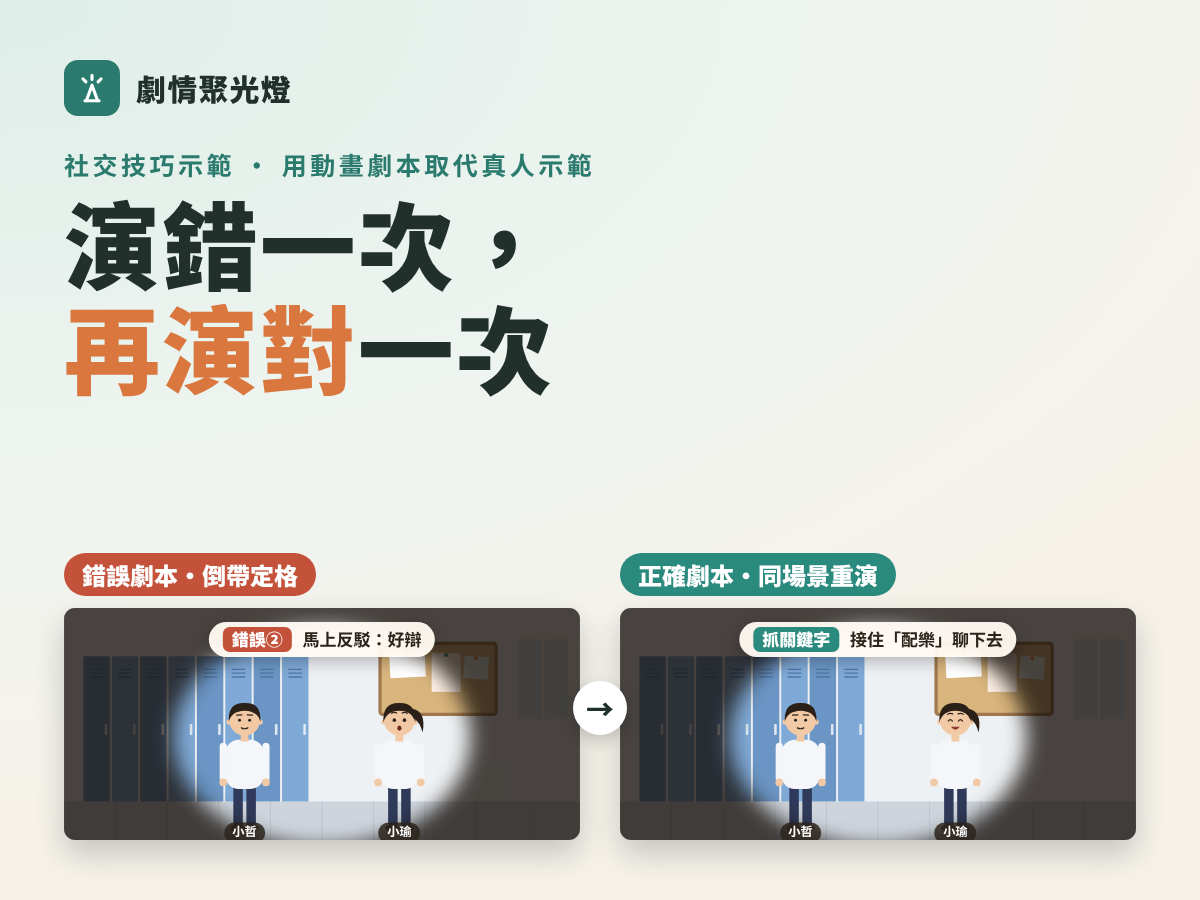
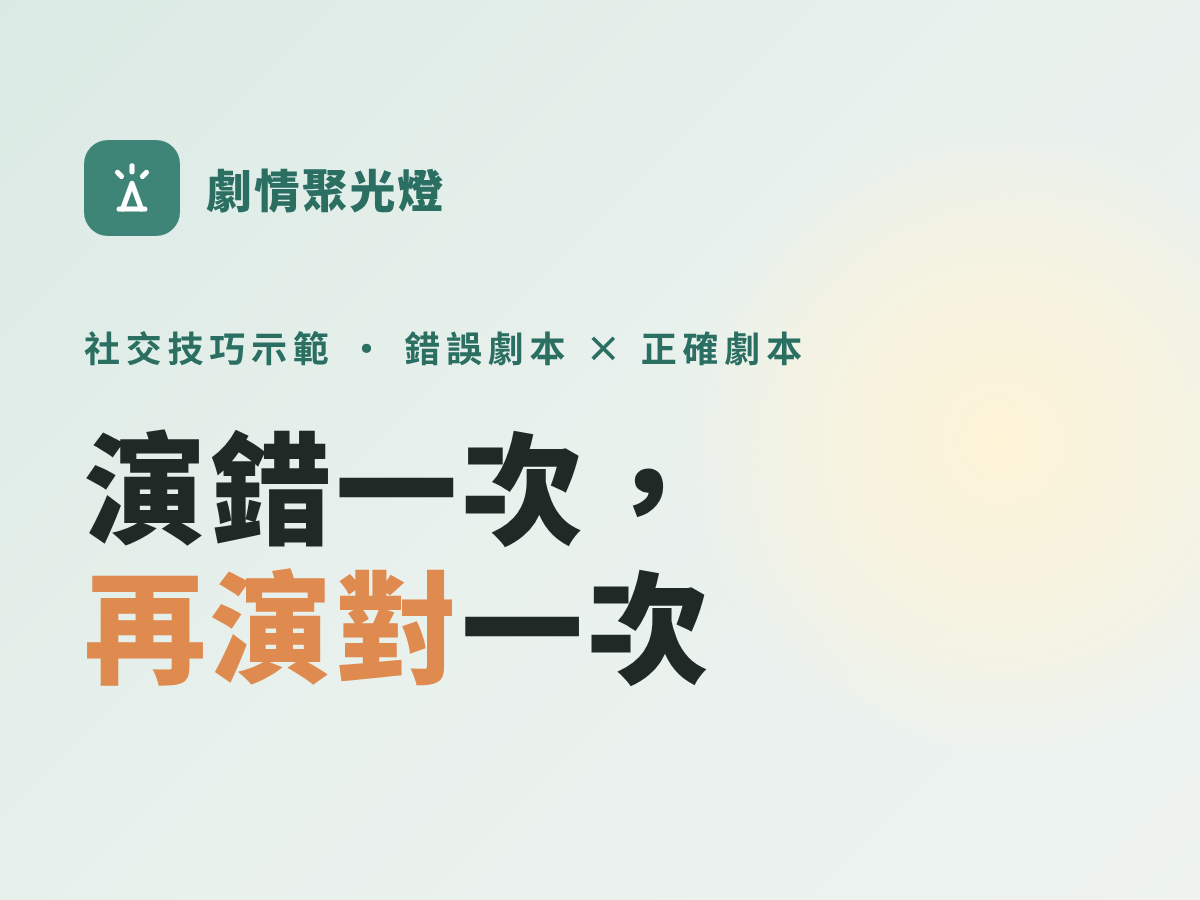
封面圖改成 4:3、跟交朋友的 15 堂課同樣版型，電腦版裁成 16:9 也不會切到字
Claude-Session: https://claude.ai/code/session_01E3L8jsNAjWg5ynLDVvejoH

diff --git a/spotlight-scenes/docs/cover.js b/spotlight-scenes/docs/cover.js
@@ -1,48 +1,38 @@
-// 產生分享用封面圖：node docs/cover.js → docs/cover.png（1200×900）
+// 產生分享用封面圖：node docs/cover.js → docs/cover.png（1200×900，4:3）
+// 重點都放在中間 16:9 的範圍（上下各留 112px），電腦版裁成 16:9 也不會切到字
 const fs = require('fs');
 const path = require('path');
-const { renderScene, SCENE_CSS } = require('../engine/scene');
-const { talkNG, talkOK } = require('../examples/hallway');
-// 封面字幕縮短，縮圖才看得清楚
-const short = (sc, i, cap) => ({ ...sc, beats: sc.beats.map((b, j) => (j === i ? { ...b, cap } : b)) });
-const ng = renderScene(short(talkNG, 14, '馬上反駁：好辯'), [14, 14], 'print');
-const ok = renderScene(short(talkOK, 3, '接住「配樂」聊下去'), [3, 3], 'print');
 const html = `<!doctype html><html lang="zh-Hant"><head><meta charset="utf-8"><style>
 *{box-sizing:border-box;margin:0}
-body{width:1200px;height:900px;overflow:hidden;font-family:"Noto Sans TC",sans-serif;color:#22302c;
- background:radial-gradient(120% 90% at 0% 0%,#dfeee8 0%,#eef4f0 55%,#f6f2ea 100%)}
-.wrap{padding:60px 64px}
-.badge{display:flex;align-items:center;gap:16px;font-weight:900;font-size:30px;color:#22302c;letter-spacing:.04em}
-.badge i{width:56px;height:56px;border-radius:14px;background:#2b7a6e;display:grid;place-items:center}
-.sub{margin-top:30px;font-size:25px;font-weight:700;letter-spacing:.14em;color:#2b7a6e}
-h1{margin-top:8px;font-size:96px;font-weight:900;line-height:1.08;letter-spacing:.02em}
-h1 em{font-style:normal;color:#d9773e}
-.frames{position:absolute;left:64px;right:64px;bottom:60px;display:grid;grid-template-columns:1fr 1fr;gap:40px}
-.f{position:relative}
-.f .scn{border-radius:18px;box-shadow:0 14px 30px rgba(30,40,35,.22);font-size:3.3cqw}
-.f .scn-say,.f .scn-think{display:none}
-.f .scn-cap{top:6%;padding:.3em .8em;white-space:nowrap;max-width:none}
-.f .lab{display:inline-block;margin-bottom:12px;font-weight:900;font-size:24px;color:#fff;padding:4px 18px;border-radius:999px}
-.f.n .lab{background:#c4523b}.f.o .lab{background:#2b8a7e}
-.arrow{position:absolute;left:50%;bottom:${60 + 105}px;transform:translateX(-50%);z-index:3;width:54px;height:54px;border-radius:50%;background:#fff;display:grid;place-items:center;font-size:28px;font-weight:900;color:#22302c;box-shadow:0 6px 16px rgba(0,0,0,.18)}
-${SCENE_CSS}
-</style></head><body><div class="wrap">
-<div class="badge"><i><svg width="34" height="34" viewBox="0 0 24 24" fill="none" stroke="#fff" stroke-width="2.2" stroke-linecap="round" stroke-linejoin="round"><path d="M12 3v3M5.6 5.6l2.1 2.1M18.4 5.6l-2.1 2.1"/><path d="M8 21l4-11 4 11"/><path d="M7 21h10"/></svg></i>劇情聚光燈</div>
-<p class="sub">社交技巧示範 ・ 用動畫劇本取代真人示範</p>
+body{width:1200px;height:900px;overflow:hidden;font-family:"Noto Sans TC",sans-serif;color:#22302c;position:relative;
+ background:linear-gradient(135deg,#dbeae4 0%,#e9f1ed 50%,#eef3f0 100%)}
+.spot{position:absolute;right:-120px;top:120px;width:640px;height:640px;border-radius:50%;
+ background:radial-gradient(circle,rgba(255,244,214,.95) 0%,rgba(255,244,214,.45) 45%,rgba(255,244,214,0) 70%)}
+.wrap{position:absolute;left:84px;top:140px}
+.badge{display:flex;align-items:center;gap:26px;font-weight:900;font-size:46px;color:#2b6f63;letter-spacing:.04em}
+.badge i{width:96px;height:96px;border-radius:24px;background:#3f8577;display:grid;place-items:center}
+.sub{margin-top:84px;font-size:36px;font-weight:700;letter-spacing:.16em;color:#2b6f63}
+h1{margin-top:40px;font-size:122px;font-weight:900;line-height:1.14;letter-spacing:.03em;color:#1f2a26}
+h1 em{font-style:normal;color:#df8a4f}
+</style></head><body>
+<div class="spot"></div>
+<div class="wrap">
+<div class="badge"><i><svg width="56" height="56" viewBox="0 0 24 24" fill="none" stroke="#fff" stroke-width="2.2" stroke-linecap="round" stroke-linejoin="round"><path d="M12 2.5v2.5M5.8 5.3l1.7 1.7M18.2 5.3l-1.7 1.7"/><path d="M8 21l4-11 4 11"/><path d="M6.5 21h11"/></svg></i>劇情聚光燈</div>
+<p class="sub">社交技巧示範 ・ 錯誤劇本 × 正確劇本</p>
 <h1>演錯一次，<br><em>再演對</em>一次</h1>
 </div>
-<div class="frames"><div class="f n"><span class="lab">錯誤劇本・倒帶定格</span>${ng}</div><div class="f o"><span class="lab">正確劇本・同場景重演</span>${ok}</div></div>
-<div class="arrow">→</div>
 </body></html>`;
 const out = path.join(__dirname, 'cover.html');
 fs.writeFileSync(out, html);
 (async () => {
   const { chromium } = require('playwright');
   const b = await chromium.launch();
-  const p = await b.newPage({ viewport: { width: 1200, height: 900 }, deviceScaleFactor: 1 });
+  const p = await b.newPage({ viewport: { width: 1200, height: 900 } });
   await p.goto('file://' + out);
-  await p.waitForTimeout(500);
+  await p.waitForTimeout(400);
   await p.screenshot({ path: path.join(__dirname, 'cover.png') });
+  // 檢查：電腦版 16:9 裁切後的樣子
+  await p.screenshot({ path: path.join(__dirname, '..', '..', 'cover-169-check.png'), clip: { x: 0, y: 112, width: 1200, height: 675 } });
   await b.close();
   fs.unlinkSync(out);
   console.log('docs/cover.png 完成');
